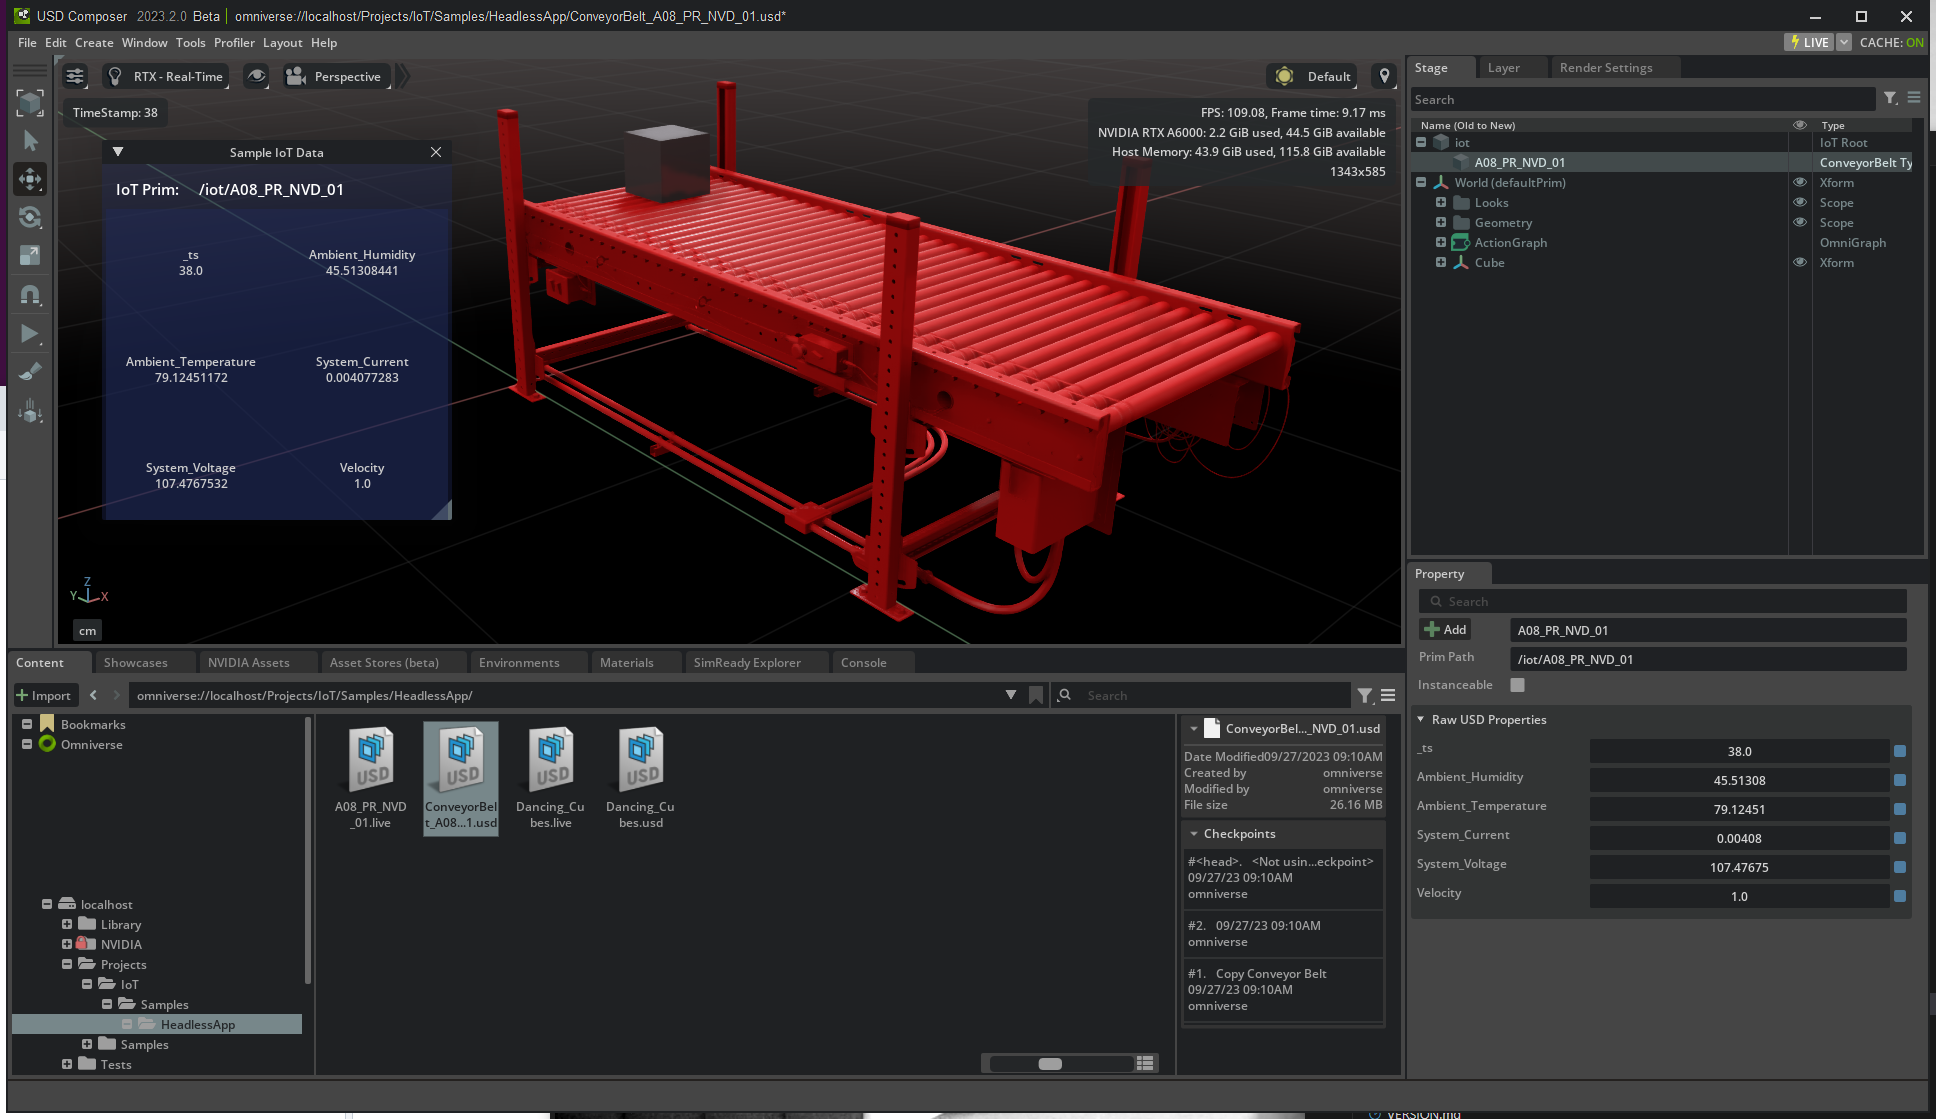
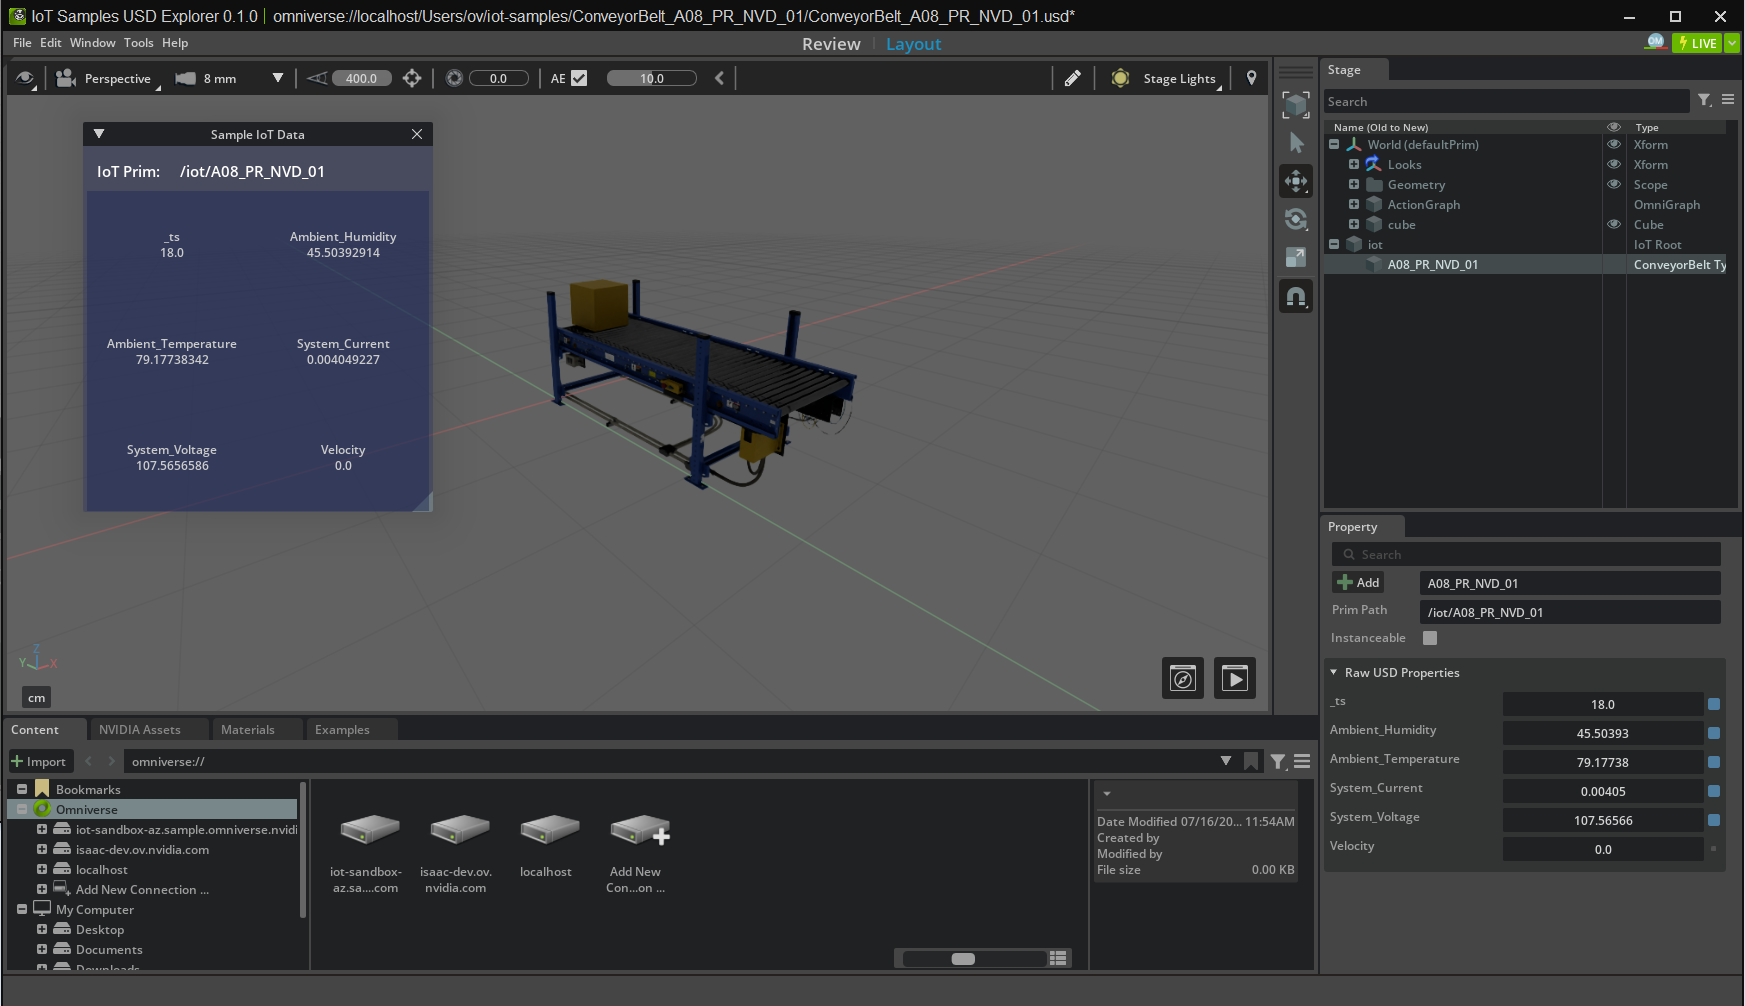
update docs

diff --git a/source/extensions/iot_samples.ui_panel/iot_samples/ui_panel/tests/test_hello_world.py b/source/extensions/iot_samples.ui_panel/iot_samples/ui_panel/tests/test_hello_world.py
@@ -1,13 +1,23 @@
+# SPDX-FileCopyrightText: Copyright (c) 2024 NVIDIA CORPORATION & AFFILIATES. All rights reserved.
+# SPDX-License-Identifier: LicenseRef-NvidiaProprietary
+#
+# NVIDIA CORPORATION, its affiliates and licensors retain all intellectual
+# property and proprietary rights in and to this material, related
+# documentation and any modifications thereto. Any use, reproduction,
+# disclosure or distribution of this material and related documentation
+# without an express license agreement from NVIDIA CORPORATION or
+# its affiliates is strictly prohibited.
+
 # NOTE:
 #   omni.kit.test - std python's unittest module with additional wrapping to add suport for async/await tests
 #   For most things refer to unittest docs: https://docs.python.org/3/library/unittest.html
 import omni.kit.test
 
-# Extnsion for writing UI tests (simulate UI interaction)
+# Extension for writing UI tests (to simulate UI interaction)
 import omni.kit.ui_test as ui_test
 
 # Import extension python module we are testing with absolute import path, as if we are external user (other extension)
-import omni.iot.sample.panel
+import iot_samples.ui_panel
 
 
 # Having a test class dervived from omni.kit.test.AsyncTestCase declared on the root of module will make it auto-discoverable by omni.kit.test
@@ -20,22 +30,19 @@ class Test(omni.kit.test.AsyncTestCase):
     async def tearDown(self):
         pass
 
-    # Actual test, notice it is "async" function, so "await" can be used if needed
-    @omni.kit.test.omni_test_registry(guid="f898a949-bacc-41f5-be56-b4eb8923f54e")
+    # Actual test, notice it is an "async" function, so "await" can be used if needed
     async def test_hello_public_function(self):
-        result = omni.iot.sample.panel.some_public_function(4)
+        result = iot_samples.ui_panel.some_public_function(4)
         self.assertEqual(result, 256)
 
-
-    @omni.kit.test.omni_test_registry(guid="4626d574-659f-4a85-8958-9fa8588fbce3")
     async def test_window_button(self):
 
         # Find a label in our window
-        label = ui_test.find("My Window//Frame/**/Label[*]")
+        label = ui_test.find("IoT Samples UI Panel Extension//Frame/**/Label[*]")
 
         # Find buttons in our window
-        add_button = ui_test.find("My Window//Frame/**/Button[*].text=='Add'")
-        reset_button = ui_test.find("My Window//Frame/**/Button[*].text=='Reset'")
+        add_button = ui_test.find("IoT Samples UI Panel Extension//Frame/**/Button[*].text=='Add'")
+        reset_button = ui_test.find("IoT Samples UI Panel Extension//Frame/**/Button[*].text=='Reset'")
 
         # Click reset button
         await reset_button.click()

diff --git a/source/extensions/iot_samples.ui_panel/iot_samples/ui_panel/extension.py b/source/extensions/iot_samples.ui_panel/iot_samples/ui_panel/extension.py
@@ -1,23 +1,12 @@
-# SPDX-FileCopyrightText: Copyright (c) 2023 NVIDIA CORPORATION & AFFILIATES. All rights reserved.
-# SPDX-License-Identifier: MIT
+# SPDX-FileCopyrightText: Copyright (c) 2024 NVIDIA CORPORATION & AFFILIATES. All rights reserved.
+# SPDX-License-Identifier: LicenseRef-NvidiaProprietary
 #
-# Permission is hereby granted, free of charge, to any person obtaining a
-# copy of this software and associated documentation files (the "Software"),
-# to deal in the Software without restriction, including without limitation
-# the rights to use, copy, modify, merge, publish, distribute, sublicense,
-# and/or sell copies of the Software, and to permit persons to whom the
-# Software is furnished to do so, subject to the following conditions:
-#
-# The above copyright notice and this permission notice shall be included in
-# all copies or substantial portions of the Software.
-#
-# THE SOFTWARE IS PROVIDED "AS IS", WITHOUT WARRANTY OF ANY KIND, EXPRESS OR
-# IMPLIED, INCLUDING BUT NOT LIMITED TO THE WARRANTIES OF MERCHANTABILITY,
-# FITNESS FOR A PARTICULAR PURPOSE AND NONINFRINGEMENT. IN NO EVENT SHALL
-# THE AUTHORS OR COPYRIGHT HOLDERS BE LIABLE FOR ANY CLAIM, DAMAGES OR OTHER
-# LIABILITY, WHETHER IN AN ACTION OF CONTRACT, TORT OR OTHERWISE, ARISING
-# FROM, OUT OF OR IN CONNECTION WITH THE SOFTWARE OR THE USE OR OTHER
-# DEALINGS IN THE SOFTWARE.
+# NVIDIA CORPORATION, its affiliates and licensors retain all intellectual
+# property and proprietary rights in and to this material, related
+# documentation and any modifications thereto. Any use, reproduction,
+# disclosure or distribution of this material and related documentation
+# without an express license agreement from NVIDIA CORPORATION or
+# its affiliates is strictly prohibited.
 
 import omni.ext
 import omni.ui as ui

diff --git a/source/extensions/iot_samples.ui_panel/iot_samples/ui_panel/tests/__init__.py b/source/extensions/iot_samples.ui_panel/iot_samples/ui_panel/tests/__init__.py
@@ -1,0 +1,11 @@
+# SPDX-FileCopyrightText: Copyright (c) 2024 NVIDIA CORPORATION & AFFILIATES. All rights reserved.
+# SPDX-License-Identifier: LicenseRef-NvidiaProprietary
+#
+# NVIDIA CORPORATION, its affiliates and licensors retain all intellectual
+# property and proprietary rights in and to this material, related
+# documentation and any modifications thereto. Any use, reproduction,
+# disclosure or distribution of this material and related documentation
+# without an express license agreement from NVIDIA CORPORATION or
+# its affiliates is strictly prohibited.
+
+from .test_hello_world import *

diff --git a/source/extensions/iot_samples.ui_panel/iot_samples/ui_panel/__init__.py b/source/extensions/iot_samples.ui_panel/iot_samples/ui_panel/__init__.py
@@ -1,0 +1,11 @@
+# SPDX-FileCopyrightText: Copyright (c) 2024 NVIDIA CORPORATION & AFFILIATES. All rights reserved.
+# SPDX-License-Identifier: LicenseRef-NvidiaProprietary
+#
+# NVIDIA CORPORATION, its affiliates and licensors retain all intellectual
+# property and proprietary rights in and to this material, related
+# documentation and any modifications thereto. Any use, reproduction,
+# disclosure or distribution of this material and related documentation
+# without an express license agreement from NVIDIA CORPORATION or
+# its affiliates is strictly prohibited.
+
+from .extension import *

diff --git a/source/omni/live/live_cube.py b/source/omni/live/live_cube.py
@@ -62,6 +62,7 @@ class LiveCube:
             if op.GetOpType() == UsdGeom.XformOp.TypeTranslate:
                 self._translate = op
 
+        self.scale(Gf.Vec3f(1.0))
         if self._rotateXYZOp is None:
             self._rotateXYZOp = self.cube.AddRotateXYZOp()
         self._rotation = Gf.Vec3f(0.0, 0.0, 0.0)

diff --git a/README.md b/README.md
@@ -372,33 +372,18 @@ The sample IoT Extension uses Omniverse Extensions, which are the core building 
 
 The IoT Extension demonstrates;
 
-1. Visualizing IoT data
-2. Animating a USD stage using IoT data
+- Visualizing IoT data
+- Animating a USD stage using IoT data
 
-To enable the IoT Extension in USD Composer or Kit, do the following:
-
-Open the Extensions panel by clicking on **Window** > **Extensions** in the menu and then follow the steps as shown.
-
-![open settings](readme-assets/docs/ext_001.png?raw=true)
-
-![map to extension folder](readme-assets/docs/ext_002.png?raw=true)
-
-![enabling extension](readme-assets/docs/enabling_iot_panel_extension.png?raw=true)
 
 1. **Visualizing IoT data**
 
 The IoT Extension leverages the Omniverse UI Framework to visualize the IoT data as a panel. [Find out more about the Omniverse UI Framework](https://docs.omniverse.nvidia.com/kit/docs/omni.ui/latest/Overview.html)
 
-
 Once you have enabled the IoT extension, you should see IoT data visualized in a Panel.
 
-![iot panel](readme-assets/docs/iot_panel.png?raw=true)
+![iot panel](readme-assets/docs/ext_003.png?raw=true)
 
-Alternatively, you can launch your app from the console with this folder added to search path and your extension enabled, e.g.:
-
-```
-> app\omni.code.bat --ext-folder exts --enable omni.iot.sample.panel
-```
 2. **Animating a USD stage using IoT data**
 
 In your Omniverse application,
@@ -407,7 +392,7 @@ open `omniverse://<nucleus server>/users/<user name>/iot-samples/ConveyorBelt_A0
 
 Ensure the IoT Extension is enabled.
 
-Click on the `play` icon on the left toolbar of the USD Composer and the extension will animate to the `Velocity` value change in the IoT data
+Click on the `play` icon on the bootm right of the applications's viewport and the extension will animate to the `Velocity` value change in the IoT data
 
 ![open settings](readme-assets/docs/play_to_animate.png?raw=true)
 

diff --git a/source/extensions/iot_samples.ui_panel/docs/CHANGELOG.md b/source/extensions/iot_samples.ui_panel/docs/CHANGELOG.md
@@ -3,6 +3,5 @@
 The format is based on [Keep a Changelog](https://keepachangelog.com/en/1.0.0/).
 
 
-## [1.0.0] - 2021-04-26
+## [0.1.0] - 2024-07-16
 - Initial version of extension UI template with a window
-

diff --git a/source/extensions/iot_samples.ui_panel/docs/README.md b/source/extensions/iot_samples.ui_panel/docs/README.md
@@ -1,0 +1,3 @@
+# IoT Samples UI Panel Extension [iot_samples.ui_panel]
+
+A simple python UI extension example. Use it as a starting point for your extensions.

diff --git a/source/extensions/iot_samples.ui_panel/docs/Overview.md b/source/extensions/iot_samples.ui_panel/docs/Overview.md
@@ -1,0 +1,1 @@
+# Overview
